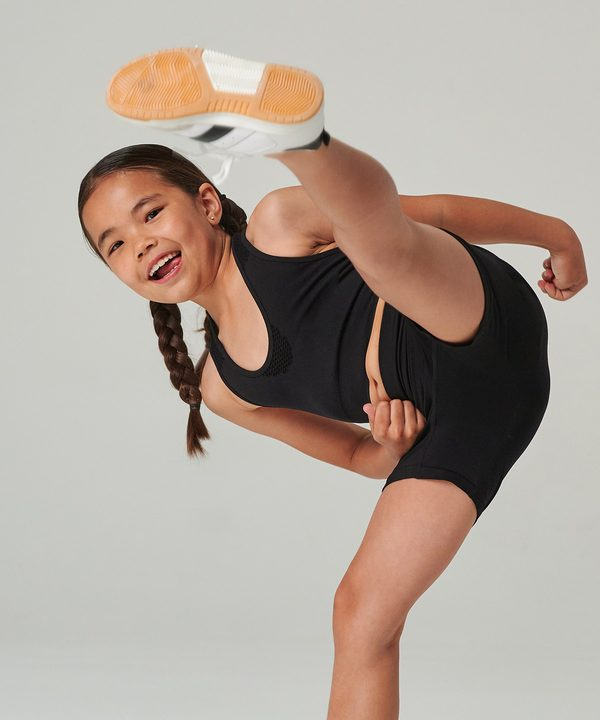
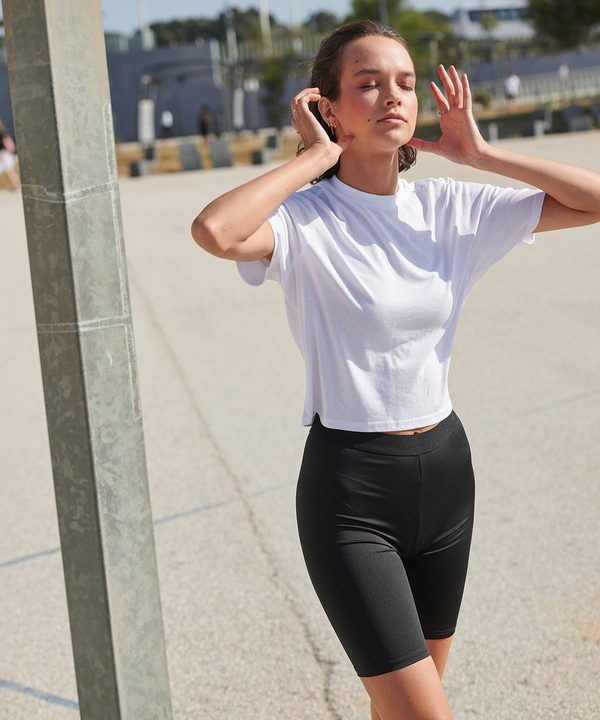
Home page: swap out photos with a studio light flash

diff --git a/index.html b/index.html
@@ -353,7 +353,7 @@ function home(){
   const slides = [
     { k: 'Dance school kit', h: 'Your school.<br>Your colours.<br>Your kit.', p: 'Hoodies, zoodies, crop tops, shorts and leggings with your dance school’s logo, in adult and kids’ sizes.', img: 'images/home/hero-school.jpg', alt: 'Two dancers in black cycling shorts and crop tops', cta: ['#/schools', 'Kit out your school'] },
     { k: 'Competition season', h: 'Walk in<br>as a team.', p: 'Matching tracksuits and zoodies with your team name, printed or embroidered, ready for the big day.', img: 'images/home/hero-competition.jpg', alt: 'Two dancers in matching navy and sky team tracksuits', cta: ['#/shop/tracksuits', 'Shop tracksuits'] },
-    { k: 'Made for one', h: 'Their name,<br>on their kit.', p: 'Personalise a crop top, hoodie or dance bag with a name or initials. A gift they’ll actually wear.', img: 'images/home/hero-personal.jpg', alt: 'A young dancer with a pink dance bag', cta: ['#/shop', 'Personalise something'] },
+    { k: 'Made for one', h: 'Their name,<br>on their kit.', p: 'Personalise a crop top, hoodie or dance bag with a name or initials. A gift they’ll actually wear.', img: 'images/home/hero-personal.jpg', alt: 'A smiling young dancer mid-kick in a black crop top and shorts', cta: ['#/shop', 'Personalise something'] },
   ];
   const cats = CATS.map(c => `<a class="cat" href="#/shop/${c.id}"><img src="images/home/cat-${c.id}.jpg" alt="" loading="lazy"><span>${esc(c.name)}</span></a>`).join('');
   const occ = [
